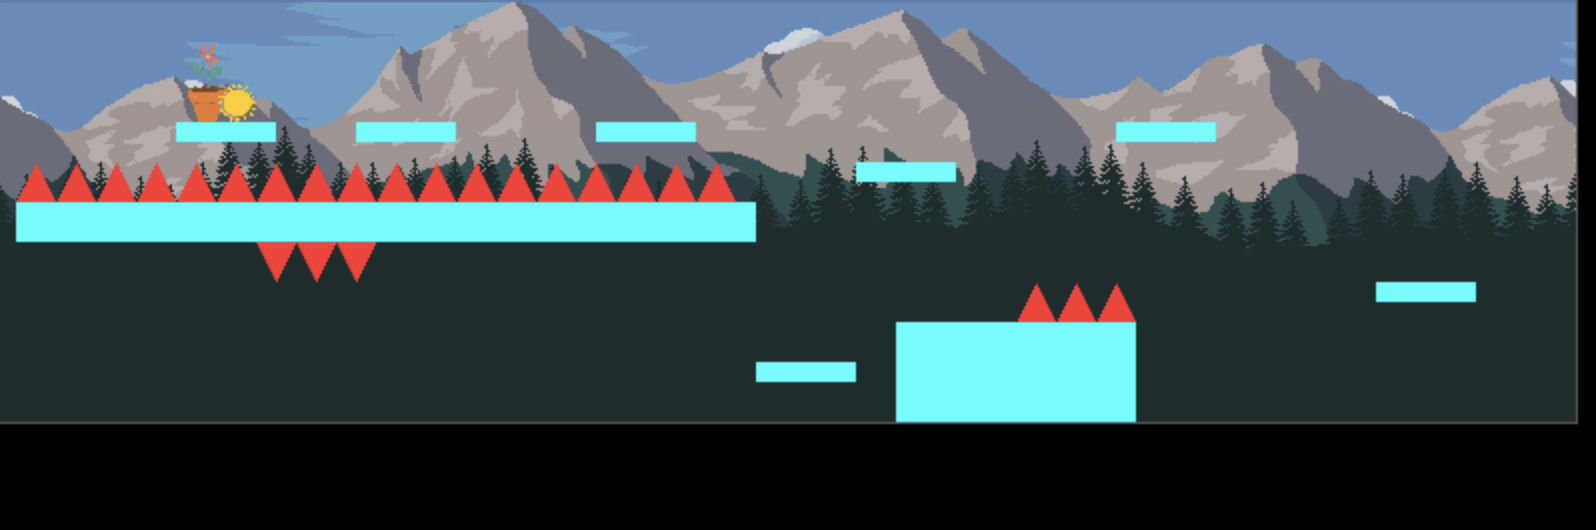
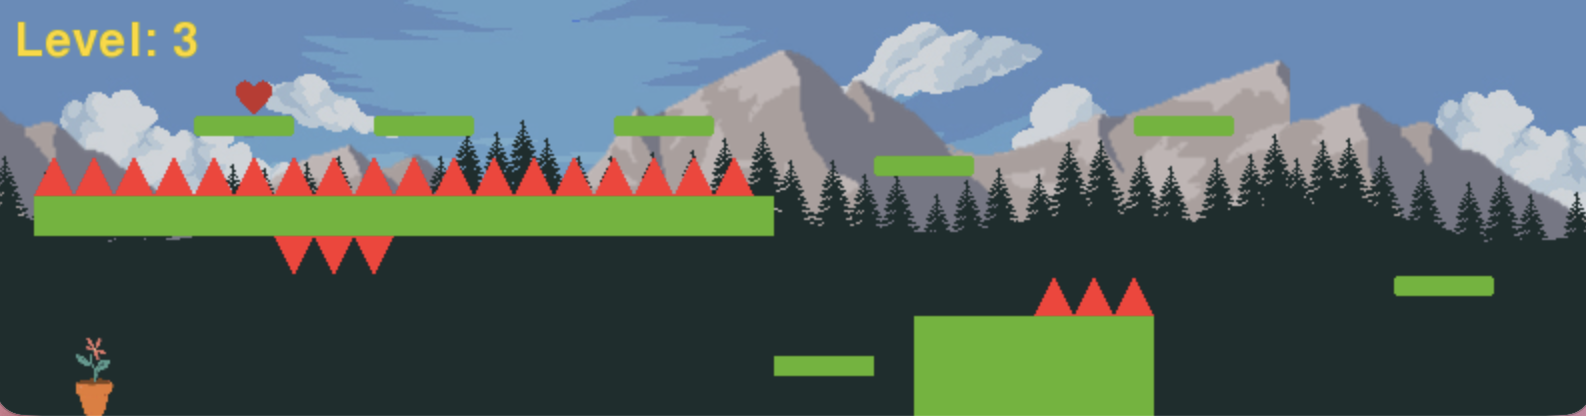
add pictures to projects

diff --git a/src/App.jsx b/src/App.jsx
@@ -27,7 +27,7 @@ const PORTFOLIO_DATA = {
   projects: [
     {
       title: "Quest for Quinine",
-      image: "/BlossomDash.png",
+      image: "/QuestForQuinine.png",
       description:
         "A historically grounded educational video game about a British explorer's adventure in the Peruvian jungle. Features resource management, quests, NPC interactions, and research-backed historical facts.",
       tech: ["C#", "Unity"],
@@ -36,7 +36,7 @@ const PORTFOLIO_DATA = {
     },
     {
       title: "Bit Blast",
-      image: "/BlossomDash.png",
+      image: "/BitBlast.png",
       description:
         "A falling-block puzzle game where bit-blocks drop onto an 8-bit register and perform logic gate operations on impact. Match the goal state to clear the register.",
       tech: ["C#", "Unity", "Canva"],
@@ -55,7 +55,7 @@ const PORTFOLIO_DATA = {
     
     {
       title: "Portfolio Website",
-      image: "/BlossomDash.png",
+      image: "/Portfolio.png",
       description:
         "This very site! Built with React and Vite, deployed via GitHub Pages. Designed with accessibility and performance in mind.",
       tech: ["React", "Vite", "GitHub Pages"],
